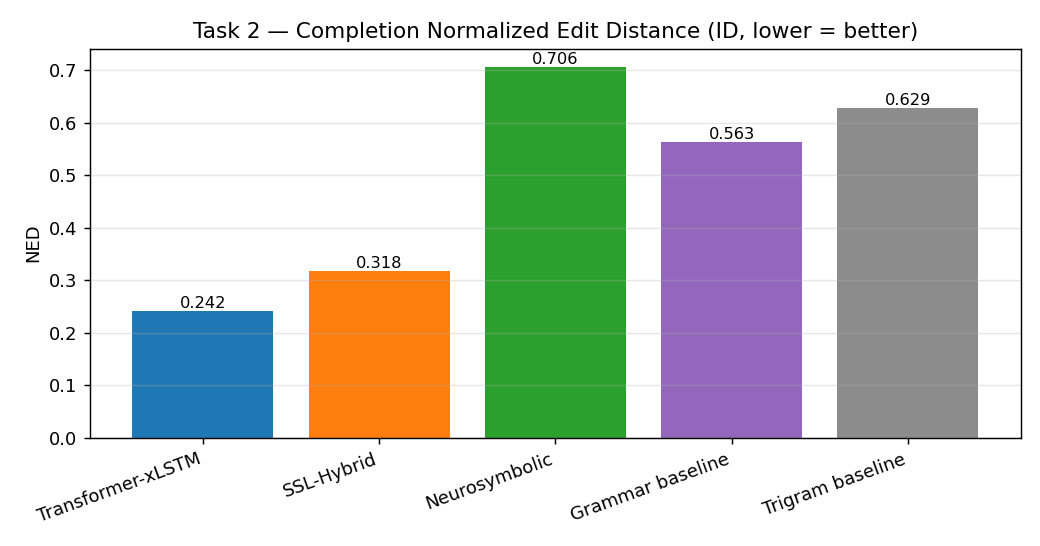
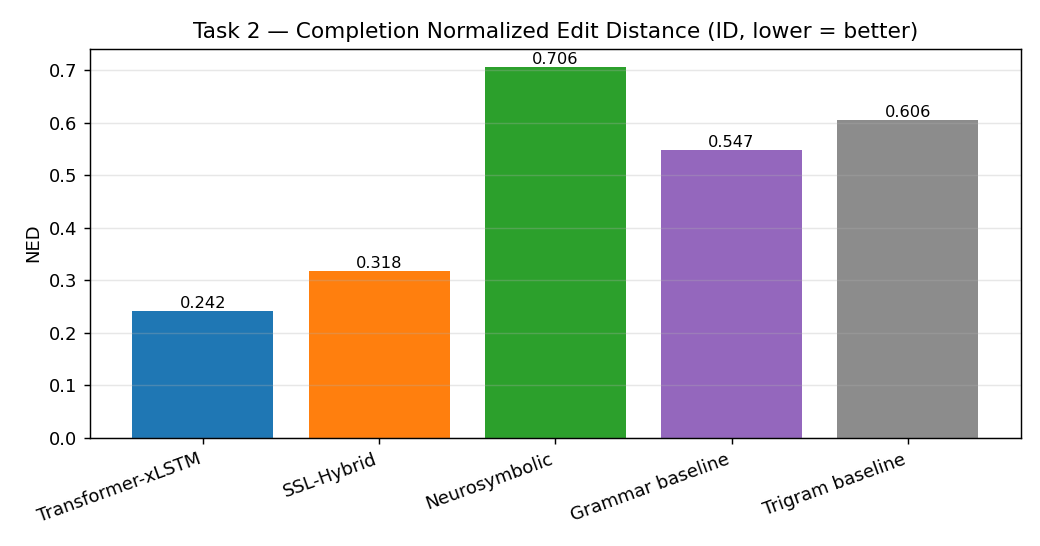
Add SLURM script for reproducibility: `reproduce.sbatch` enables GPU-accelerated benchmark runs on Leonardo. Update README with SLURM usage guide and adjust minor baseline metrics for completion NED.

Changed region(s): [[0.6154, 0.2179, 0.7692, 0.2802], [0.8, 0.1557, 0.9538, 0.2179]]

diff --git a/README.md b/README.md
@@ -1,143 +1,104 @@
-# Process-Logic — Semiconductor Process-Sequence Modeling
+# Process-Logic
 
-Learning the *grammar* of semiconductor fabrication flows: given partial MOSFET/IGBT/IC
-process sequences, predict the next step, complete the sequence, and flag sequences that
-violate process rules. Built for the Industrial AI (Infineon) track of Zero One Hack_01.
+Semiconductor fab routes are long, ordered sequences of process steps whose validity depends on that
+order. For the **Industrial AI (Infineon)** track we asked one question: can a model learn the
+*grammar* of those routes — predict the next step, complete a partial route, and flag rule
+violations — or does it only memorize? To answer it honestly we generate synthetic routes from a
+rule-based simulator, train on them, and test generalization by holding out an entire product family.
 
-The core question: does a model learn real process logic, or just memorize? The pipeline
-generates its own synthetic training data from a rule-based process simulator, trains a
-decoder Transformer (optionally xLSTM) on it, and emits organizer-format predictions.
+We built and compared **three approaches** on a single shared benchmark:
 
-## The four tasks
+- **Transformer** — `models/transformer_xlstm/`. A decoder transformer (optionally xLSTM) with a
+  compositional tokenizer and multitask validity/rule heads. Our most mature model.
+- **SSL-Hybrid** — `models/self-supervised/`. A self-supervised transformer with semantic-feature
+  and family embeddings, plus retrieval/rerank.
+- **Neurosymbolic** — `models/neurosymbolic/`. A symbolic grammar and 10-rule oracle with role
+  induction, ranked by a zero-parameter PPM.
 
-1. **Next-step prediction** — given a partial sequence, rank the 5 most likely next steps.
-2. **Sequence completion** — given a partial sequence, generate the remaining suffix.
-3. **Anomaly detection** — given a full sequence, classify valid vs. invalid.
-4. **Rule attribution** — given an invalid sequence, identify which of the 10 process
-   rules was violated.
+The three submission tasks — next-step prediction, sequence completion, anomaly detection — are
+scored by the organizers' `eval_metrics.py`. The head-to-head results are in
+[`submission/UNIFIED_BENCHMARK.md`](submission/UNIFIED_BENCHMARK.md); the technical write-up is in
+[`REPORT.md`](REPORT.md).
 
-## 👉 Our submission — Industrial AI (Infineon)
+## Quickstart
 
-This repo is our team's entry for the **Industrial AI** track. Start here:
-
-- **[`REPORT.md`](./REPORT.md)** — executive summary: approach, results, final files, how to run.
-- **[`submission/UNIFIED_BENCHMARK.md`](./submission/UNIFIED_BENCHMARK.md)** — the three model approaches
-  compared head-to-head on **one common eval set** with the **official metrics** (ID + OOD).
-- **[`models/self-supervised/README.md`](./models/self-supervised/README.md)** — full technical write-up.
-- **[`competition/participant-files/predictions/`](./competition/participant-files/predictions/)** — final submission CSVs.
-
-## Reproduce the unified benchmark — one command, no Leonardo needed
-
-All three approaches (Transformer, SSL-Hybrid, Neurosymbolic) + two reference baselines, scored on
-the **same** held-out data with the **same** official `eval_metrics.py`, in both in-distribution and
-out-of-distribution (leave-one-family-out) regimes — from a clean checkout on any machine:
+From a clean clone, on any machine — no GPU and no cluster access required:
 
 ```bash
+git clone <repo-url> && cd zero_one_hack_01
 python -m venv .venv && source .venv/bin/activate
 pip install -r requirements.txt
-./reproduce.sh            # full run: build eval set → train compact models → score → report
-                          #   CPU ~60-75 min · CUDA auto-detected (~10 min) · MPS skipped (unstable)
-./reproduce.sh quick      # <2 min smoke test: baselines + neurosymbolic only (no neural training)
+
+./reproduce.sh           # build eval set → train compact models → score → write the report
+./reproduce.sh quick     # ~2-min smoke: baselines + neurosymbolic only, no training
 ```
 
-Output → `shared/benchmark/results_summary.csv` and **[`submission/UNIFIED_BENCHMARK.md`](./submission/UNIFIED_BENCHMARK.md)**
-(tables + figures in `submission/benchmark_assets/`). Baselines + neurosymbolic need no training and
-score instantly; the transformer/SSL checkpoints are compact, trained locally for laptop
-reproducibility (≈ production lm-loss; see UNIFIED_BENCHMARK.md §8).
+`reproduce.sh` runs the entire comparison end to end. It auto-detects CUDA when present (≈10 min) and
+otherwise runs on CPU (≈60–75 min; Apple MPS is skipped — its kernels are unstable for this model).
+Everything is seed-pinned and deterministic. Results land in `shared/benchmark/results_summary.csv`,
+the report regenerates at `submission/UNIFIED_BENCHMARK.md`, and figures go to
+`submission/benchmark_assets/`.
 
-> **Full-scale (optional, Leonardo).** The compact checkpoints above reproduce the *comparison*. For
-> the production-scale numbers (max_len 768, 6k steps, the xLSTM architecture, multiple model sizes)
-> use the SLURM scripts in `shared/scripts/slurm/` per [`docs/leonardo.md`](docs/leonardo.md);
-> `pip install "xlstm>=1.0.7"` on the CUDA node first. This is **not required** to verify the results.
+## Running on Leonardo
 
----
+The compact models reproduce the *comparison*. For the production-scale runs (max_len 768, longer
+training, the xLSTM architecture, multiple sizes) use the cluster:
+
+```bash
+# on a login node (internet available)
+cd $SCRATCH && git clone <repo-url> zero_one_hack_01
+bash zero_one_hack_01/shared/scripts/leonardo/setup_env.sh    # installs pixi + the pinned env
+
+cd zero_one_hack_01
+sbatch reproduce.sbatch                                        # same benchmark, one A100 (~15 min)
+tail -f shared/extras/logs/reproduce-*.out
+```
+
+`reproduce.sbatch` requests one GPU on `boost_usr_prod` and runs the identical pipeline. The full
+training grids and eval arrays are in `shared/scripts/slurm/`; see [`docs/leonardo.md`](docs/leonardo.md)
+for authentication, environment, and job submission. The account and reservation in the SLURM headers
+are our allocation — swap in yours.
 
 ## Repository layout
 
-```text
-models/transformer_xlstm/                    # the library — clean, typed, tested
-  data/                 #   tokenizers, validator adapter, corrupters, CSV/sequence I/O
-  model/                #   decoder Transformer, xLSTM, heads, build_model registry
-  train/                #   launch CLI, training loop, losses, tracking
-  eval/                 #   predict, run_eval CLI, metrics, submission writer
-  utils/                #   paths, seeding
-configs/                # OmegaConf YAML: arch/ token/ train/ (nothing hardcoded)
-tests/                  # pure-logic pytest suite (tokenizer, validator, corrupt, metrics, io)
-baselines (shared/extras/)     # trigram, grammar-decoder, retrieval reference baselines
-competition/participant-files/      # competition submission pipeline (hybrid model + rerankers)
-competition/track-details/   # organizer data + the canonical generate_sequences.py grammar
-docs/                   # results.md (full results narrative), leonardo.md (HPC guide)
+```
+reproduce.sh / reproduce.sbatch   one-command reproduction (local / Leonardo) — start here
+models/
+  transformer_xlstm/   decoder transformer + xLSTM: tokenizers, training, eval (our primary model)
+  self-supervised/     SSL-hybrid transformer + retrieval/reranker, metrics, plots
+  neurosymbolic/       grammar, 10-rule oracle, role induction, PPM ranker (0 trained parameters)
+competition/
+  track-details/       the brief, the rule-based sequence generator, and the validation rules
+  participant-files/   the official scorer (eval_metrics.py) and our submission CSVs
+shared/
+  benchmark/           the unified benchmark: eval-set builder, per-model adapters, scorer, report
+  scripts/             SLURM jobs + Leonardo setup
+  extras/              checkpoint summaries, training logs, loss curves, baselines, raw results
+configs/               OmegaConf YAML for architecture / tokenizer / training (nothing hardcoded)
+submission/            REPORT material and the cross-model benchmark report + figures
+docs/                  full results narrative and the Leonardo operations guide
+tests/                 pytest suite for tokenizers, validator, metrics, I/O
 ```
 
-## Setup
+## Results and deliverables
 
-The environment is managed with [pixi](https://pixi.sh). It pins the platform-specific
-install — conda `pytorch-gpu` on Linux (Leonardo's CUDA-12 driver), CPU/MPS torch on
-macOS — and is the source of truth for the cluster environment.
+- **[`REPORT.md`](REPORT.md)** — approach, headline numbers, what worked and what didn't.
+- **[`submission/UNIFIED_BENCHMARK.md`](submission/UNIFIED_BENCHMARK.md)** — all three approaches on
+  one eval set with the official metrics, in-distribution and out-of-distribution (held-out family).
+- **[`competition/participant-files/predictions/`](competition/participant-files/predictions/)** —
+  the submission CSVs: `predictions_nextstep.csv`, `predictions_completion.csv`, `predictions_anomaly.csv`.
+- Score them with the organizers' script — e.g. the anomaly task against our labeled eval set:
+  ```bash
+  python competition/participant-files/eval_metrics.py --task anomaly \
+      --ground-truth shared/extras/results/eval_inputs/eval_input_anomaly_truth.csv \
+      --predictions  competition/participant-files/predictions/predictions_anomaly.csv
+  ```
+- Training artifacts — per-run config and final loss in `shared/extras/checkpoints/*/summary.json`,
+  TensorBoard loss curves in `shared/extras/logs/`.
 
-```bash
-pixi install
-pixi run smoke        # prints torch version + CUDA availability
-```
+## Requirements & license
 
-For a plain virtualenv (CPU, no cluster specifics), the abstract dependencies are also
-declared in `pyproject.toml`:
-
-```bash
-pip install -e .          # runtime deps
-pip install -e ".[dev]"   # + pytest, ruff
-```
-
-## Train
-
-Training streams freshly generated sequences from the rule-based simulator (with on-the-fly
-corruption); no static training CSV is loaded. Configs are merged at launch via OmegaConf.
-
-```bash
-python -m transformer_xlstm.train.launch \
-    --arch-config  configs/arch/transformer_small.yaml \
-    --train-config configs/train/default.yaml \
-    --token-config configs/token/compositional.yaml \
-    --run-name     my-run-001
-```
-
-Override any config value inline:
-
-```bash
-python -m transformer_xlstm.train.launch ... --override train.max_steps=100 train.batch_size=16
-```
-
-Checkpoints are written to `shared/extras/checkpoints/<run-name>/` (gitignored; only `summary.json`
-is committed). On Leonardo, submit via `shared/scripts/slurm/train.sbatch`.
-
-## Evaluate
-
-Run the internal metric suite against a checkpoint (next-step top-k / MRR, completion
-EM / normalized edit distance, anomaly precision/recall):
-
-```bash
-python -m transformer_xlstm.eval.run_eval \
-    --checkpoint shared/extras/checkpoints/my-run-001/final.pt \
-    --output-dir shared/extras/results/eval/my-run-001
-```
-
-This writes `metrics.json` + `metrics.md`. The official organizer eval inputs are
-unlabeled, so final official accuracy can only be computed by the organizers — we generate
-official-format prediction CSVs from them.
-
-## Develop
-
-```bash
-pixi run lint          # ruff check .
-pixi run format        # ruff format .
-pixi run test          # pytest
-```
-
-## Further reading
-
-- [`docs/results.md`](docs/results.md) — full pipeline writeup, model comparison, and an
-  honest account of what the results can and cannot claim.
-- [`docs/leonardo.md`](docs/leonardo.md) — authenticating, environment setup, and SLURM job
-  submission on the Leonardo cluster.
-- [`competition/track-details/`](competition/track-details/) — the organizer briefing,
-  reference data, and `generate_sequences.py` (the canonical grammar and validator).
+Python ≥ 3.10 and the packages in [`requirements.txt`](requirements.txt) (PyTorch, NumPy, pandas,
+OmegaConf, matplotlib). The benchmark is CPU-only; the xLSTM architecture additionally needs CUDA
+(`pip install "xlstm>=1.0.7"` on a GPU node). On Leonardo the pinned environment is managed by pixi
+(`pixi.toml`). Released under the MIT License — see [`LICENSE`](LICENSE).

diff --git a/submission/benchmark_assets/tables.md b/submission/benchmark_assets/tables.md
@@ -17,8 +17,8 @@
 | Transformer-xLSTM | 0.242 | 0.000 | 0.700 | 1.000 | 0.368 | 1.000 |
 | SSL-Hybrid | 0.318 | 0.000 | 0.645 | 1.000 | 0.384 | 0.833 |
 | Neurosymbolic | 0.706 | 0.000 | 0.576 | 1.000 | 0.748 | 1.000 |
-| Grammar baseline | 0.563 | 0.000 | 0.510 | 1.000 | 0.581 | 1.000 |
-| Trigram baseline | 0.629 | 0.000 | 0.540 | 0.500 | 0.648 | 0.511 |
+| Grammar baseline | 0.547 | 0.000 | 0.510 | 1.000 | 0.568 | 1.000 |
+| Trigram baseline | 0.606 | 0.000 | 0.540 | 0.500 | 0.629 | 0.511 |
 
 ### Task 3 — Anomaly detection
 
